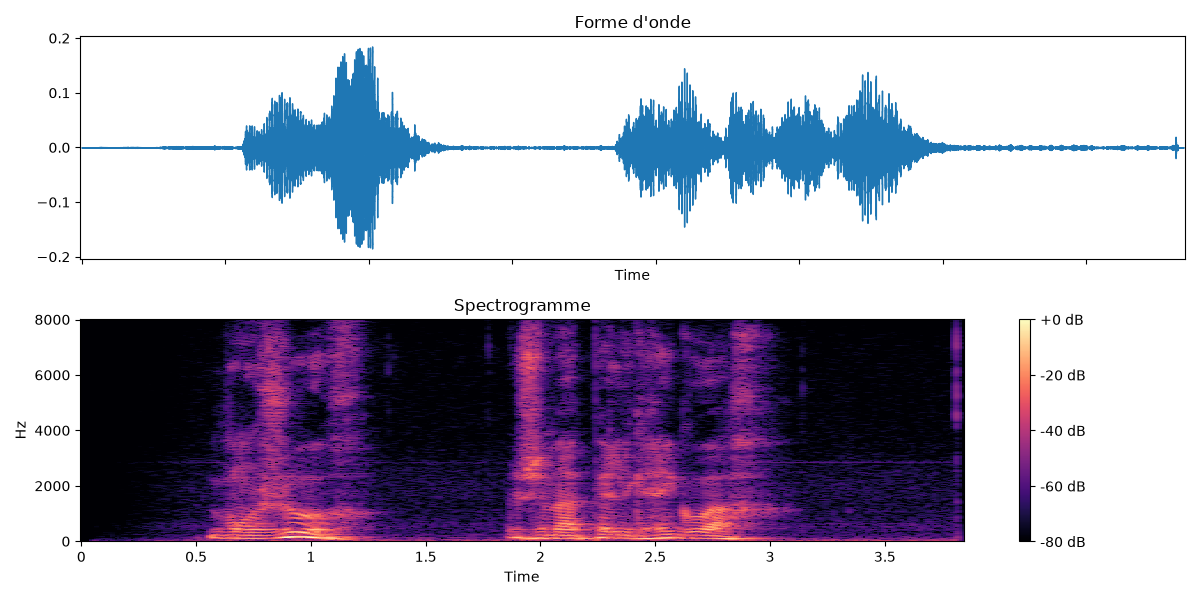
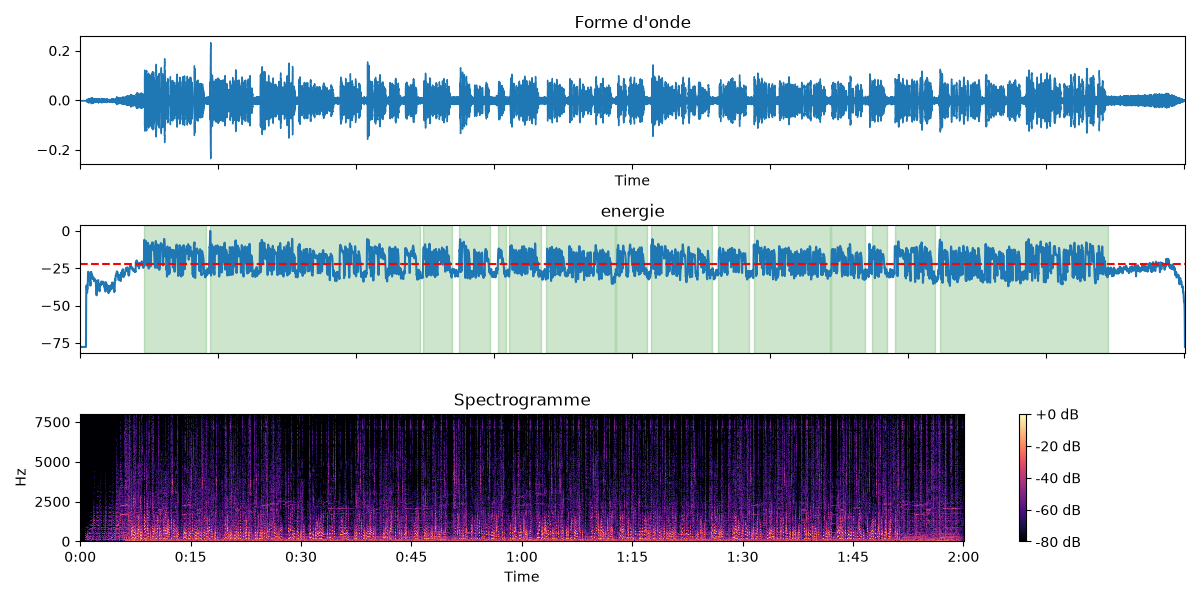
test de representativité des samples

diff --git a/rttm_files.py b/rttm_files.py
@@ -3,6 +3,9 @@ from pyannote.database.util import load_rttm #chargement des fichiers
 from pathlib import Path #pour manipuler les fichiers (supprimer les char du type (.pdf), etc...)
 import numpy as np
 import matplotlib.pyplot as plt#affichage
+import pandas as pd
+from scipy.stats import ks_2samp
+import soundfile as sf
 
 def load_file_annotations(rttm_file):
     file=Path(rttm_file)
@@ -23,7 +26,7 @@ import soundfile
 from pyannote.database.util import load_rttm
 
 
-def get_representative_sample(folder_path,wav_folder,sample_size,all=False,seed=42):
+def get_representative_sample(folder_path,wav_folder,sample_size,all=False,seed=130):
     """go through rttm files in a folder, add a sample of them to a dictionnaire of annotations,if all==True then go through all the files of the folder"""
     directory=Path(folder_path)
     file_statistics=[]#recup les stats des fichiers, pour un sample représentatif
@@ -115,8 +118,152 @@ def get_representative_sample(folder_path,wav_folder,sample_size,all=False,seed=
             sample_annotations[row[0]]=folder_annotations[row[0]]#row[0] stem du fichier tiré
     return sample_annotations
 
-    
-# ###TESTS###
+##MADE BY CLAUDE
+def save_sample_rttm(sample, output_path, split_files=False):
+    """
+    Save the annotations returned by get_representative_sample in RTTM format.
+
+    Parameters
+    ----------
+    sample : dict[str, pyannote.core.Annotation]
+        Output of get_representative_sample: {file_stem: Annotation}.
+    output_path : str or Path
+        If split_files is False: path of the single RTTM file to write
+        (e.g. "data/samples/sample_dev_seed42.rttm").
+        If split_files is True: folder in which one "<stem>.rttm" file
+        per audio file is written.
+    split_files : bool, default False
+        False -> all annotations in one RTTM file (one block of lines per uri).
+        True  -> one RTTM file per audio file.
+
+    Returns
+    -------
+    list[Path]
+        Paths of the RTTM files that were written.
+
+    Notes
+    -----
+    - The uri (field 2 of each RTTM line) is forced to the file stem, so that
+      load_rttm(path)[stem] works when the file is read back.
+    - Annotations are copied before setting the uri: the input dict is not modified.
+    - Files are written in sorted stem order, so the output is deterministic.
+    - pyannote writes times with 3 decimals (1 ms precision).
+    """
+    output_path = Path(output_path)
+    written_files = []
+
+    if split_files:
+        output_path.mkdir(parents=True, exist_ok=True)
+        for stem in sorted(sample):
+            annotation = sample[stem].copy()
+            annotation.uri = stem
+            file_path = output_path / f"{stem}.rttm"
+            with open(file_path, "w") as f:
+                annotation.write_rttm(f)
+            written_files.append(file_path)
+    else:
+        output_path.parent.mkdir(parents=True, exist_ok=True)
+        with open(output_path, "w") as f:
+            for stem in sorted(sample):
+                annotation = sample[stem].copy()
+                annotation.uri = stem
+                annotation.write_rttm(f)
+        written_files.append(output_path)
+
+    return written_files
+
+
+############TESTS BY CLAUDE###############
+
+RTTM_DIR = Path("data/voxconverse/annotations/dev")
+WAV_DIR = Path("data/voxconverse/dev/audio")
+OUT_CSV = Path("figures/sample_vs_dev_smd_ks.csv")
+SAMPLE_SIZE = 90
+
+SEED = 130
+ 
+# Variables utilisées par la stratification (équilibrées par construction)
+STRATIFIED = ["n_speakers", "overlap_rate", "speech_ratio"]
+# Variables NON utilisées par la stratification (le vrai test)
+OTHERS = ["duration", "n_segments", "mean_segment"]
+ 
+SMD_THRESHOLD = 0.1  # repère usuel : |SMD| < 0.1 = bon équilibre
+ 
+ 
+def compute_file_stats(stem, annotation, wav_dir=WAV_DIR):
+    """Statistiques d'un fichier, à partir de son Annotation de référence et de son .wav."""
+    duration = sf.info(str(wav_dir / f"{stem}.wav")).duration
+    speech = annotation.get_timeline().support().duration()
+    overlap = annotation.get_overlap().duration()
+    seg_durations = [seg.duration for seg, _ in annotation.itertracks()]
+    return {
+        "file": stem,
+        "n_speakers": len(annotation.labels()),
+        "overlap_rate": overlap / speech if speech > 0 else 0.0,
+        "speech_ratio": speech / duration,
+        "duration": duration,
+        "n_segments": len(seg_durations),
+        "mean_segment": float(np.mean(seg_durations)) if seg_durations else 0.0,
+    }
+ 
+ 
+def build_dev_table(rttm_dir=RTTM_DIR, wav_dir=WAV_DIR):
+    """DataFrame des stats de tous les fichiers du dev (une ligne par fichier)."""
+    rows = []
+    for path in sorted(rttm_dir.glob("*.rttm")):
+        annotation = next(iter(load_rttm(str(path)).values()))
+        rows.append(compute_file_stats(path.stem, annotation, wav_dir))
+    return pd.DataFrame(rows)
+ 
+ 
+def smd(sample_values, dev_values):
+    sd = dev_values.std(ddof=1)
+    return (sample_values.mean() - dev_values.mean()) / sd if sd > 0 else 0.0
+ 
+ 
+def compare_sample_to_dev(df_dev, sample_stems):
+    in_sample = df_dev["file"].isin(sample_stems)
+    s, comp = df_dev[in_sample], df_dev[~in_sample]
+    rows = []
+    for var in STRATIFIED + OTHERS:
+        ks_comp = ks_2samp(s[var], comp[var])
+        value = smd(s[var], df_dev[var])
+        rows.append({
+            "variable": var,
+            "stratifiee": var in STRATIFIED,
+            "mean_sample": s[var].mean(),
+            "mean_dev": df_dev[var].mean(),
+            "median_sample": s[var].median(),
+            "median_dev": df_dev[var].median(),
+            "SMD": value,
+            "SMD_ok": abs(value) < SMD_THRESHOLD,
+            "D_vs_dev": ks_2samp(s[var], df_dev[var]).statistic,
+            "D_vs_complement": ks_comp.statistic,
+            "p_vs_complement": ks_comp.pvalue,
+        })
+    return pd.DataFrame(rows)
+ 
+ 
+def main():
+    sample = get_representative_sample(str(RTTM_DIR), str(WAV_DIR), SAMPLE_SIZE, seed=SEED)
+    df_dev = build_dev_table()
+    result = compare_sample_to_dev(df_dev, list(sample.keys()))
+ 
+    print(f"Sample : {len(sample)} fichiers / dev : {len(df_dev)} fichiers (seed={SEED})\n")
+    print(result.round(3).to_string(index=False))
+ 
+    OUT_CSV.parent.mkdir(exist_ok=True)
+    result.to_csv(OUT_CSV, index=False)
+    print(f"\nTableau sauvegardé dans {OUT_CSV}")
+ 
+ 
+if __name__ == "__main__":
+    main()
+
+
+
+
+# ###1st TESTS### BY G
 # sample = get_representative_sample("data/voxconverse/annotations/dev", "data/voxconverse/dev/audio", 40)
 # print(len(sample))
 # print(sample)

diff --git a/experimenations.py b/experimenations.py
@@ -2,13 +2,16 @@ import librosa, librosa.display, soundfile as sf
 import numpy as np
 import matplotlib.pyplot as plt
 from pyannote.database.util import load_rttm
+from rttm_files import load_file_annotations
 
 
 #parameters
 sr=16000#frequence d'echantillonage
-frame_size=64
-hop_size=10
-
+frame_size=64#en ms
+hop_size=10#en ms
+#conversion en nombre/s
+frame_size=int(frame_size*(sr/1000))
+hop_size=int(hop_size*(sr/1000))
 
 #charger la data
 def load_audio (path,sr):
@@ -19,11 +22,14 @@ def load_audio (path,sr):
 def FFT(signal_audio,frame_size=frame_size,hop_size=hop_size):
     """#fait la tranformée de fourier rapide du signal, paramètres en ms"""
     signal_audio=signal_audio#car stft prend en parametres le nombre d'echantillons par trame
-    frame_size=frame_size*16
-    hop_size=hop_size*16
     hann_size=frame_size# on veut que recouvrir exactement la frame
     FFT_output=librosa.stft(signal_audio,n_fft=frame_size,hop_length=hop_size,win_length=hann_size)
     return FFT_output
+
+#calcul RMS : energie de chaque trame pour le seuil de parole VAD
+def RMS_on_FFT(FFT_output,frame_size=frame_size):
+    rms=librosa.feature.rms(S=np.abs(FFT_output),frame_length=frame_size)
+    return rms
 
 
 # #echantillonage
@@ -58,30 +64,44 @@ def FFT(signal_audio,frame_size=frame_size,hop_size=hop_size):
 # ######################
 # #FICHIER2#
 
-# #echantillonage
-# audio1=load_audio("data/enregistrement.wav", sr)
+#echantillonage
+audio1=load_audio("data/voxconverse/dev/audio/ysgbf.wav", sr)
 
-# #graphique
-# fig1, axes1 = plt.subplots(nrows=2, ncols=1, figsize=(12, 6),sharex=True)# nrows le nombre de ligne ncols colonne donc -> nbr de graphiques dans la figure=nrows*ncols
-# librosa.display.waveshow(audio1,sr=sr,ax=axes1[0])
-# axes1[0].set(title="Forme d'onde")
+#graphique
+fig1, axes1 = plt.subplots(nrows=3, ncols=1, figsize=(12, 6),sharex=True)# nrows le nombre de ligne ncols colonne donc -> nbr de graphiques dans la figure=nrows*ncols
+librosa.display.waveshow(audio1,sr=sr,ax=axes1[0])
+axes1[0].set(title="Forme d'onde")
 
-# #trames et FFT
-# D1=FFT(audio1)
-# print(D1.shape)
+#trames et FFT
+D1=FFT(audio1)
+print(D1.shape)
+#VAD
+rms=RMS_on_FFT(D1)
 
-# #spectrogramme
-# S_db1 = librosa.amplitude_to_db(np.abs(D1), ref=np.max)#amplitude to db convertit en db, np.abs prend le module de D (complexe->reel), ref est valeur de ref (à l'origine ?)np.max prend la val max du spectrogramme --> important pour comparer diff fichiers entre eux qui n'ont pas dutout le meme volume
+#spectrogramme
+S_db1 = librosa.amplitude_to_db(np.abs(D1), ref=np.max)#amplitude to db convertit en db, np.abs prend le module de D (complexe->reel), ref est valeur de ref (à l'origine ?)np.max prend la val max du spectrogramme --> important pour comparer diff fichiers entre eux qui n'ont pas dutout le meme volume
 
-# #graphique
-# spectro1 = librosa.display.specshow(S_db1, sr=sr, hop_length=hop_size*16, x_axis="time", y_axis="hz", ax=axes1[1])
-# fig1.colorbar(spectro1, ax=axes1[1], format="%+2.0f dB")
-# axes1[1].set(title="Spectrogramme")
-# plt.tight_layout()#ajuste les marges pour eviter les chevauchements
-# plt.savefig("figures/waveform1.png")
+#graphique rms
+times = librosa.times_like(rms, sr=sr, hop_length=hop_size)
+rms_db = librosa.amplitude_to_db(rms, ref=np.max)
+axes1[1].plot(times, rms_db[0])
+X=22
+axes1[1].axhline(-X, color="red", linestyle="--")# marge du seuil en dB
+axes1[1].set(title="energie")
+ref=load_file_annotations("ysgbf.rttm")
+for seg in ref.get_timeline().support():
+       axes1[1].axvspan(seg.start, seg.end, alpha=0.2, color="green")
+
+#graphique spectrogramme
+spectro1 = librosa.display.specshow(S_db1, sr=sr, hop_length=hop_size, x_axis="time", y_axis="hz", ax=axes1[2])
+fig1.colorbar(spectro1, ax=axes1[2], format="%+2.0f dB")
+axes1[2].set(title="Spectrogramme")
+plt.tight_layout()#ajuste les marges pour eviter les chevauchements
+plt.savefig("figures/waveform1.png")
 
 
-# annot=load_rttm("data/voxconverse/annotations/dev/abjxc.rttm")["abjxc"]
-# print(annot)
-# print(annot.label_duration("spk00"))
 
+
+annot=load_rttm("data/voxconverse/annotations/dev/abjxc.rttm")["abjxc"]
+print(annot)
+print(annot.label_duration("spk00"))

diff --git a/docs/notes-importantes-et-difficultes.md b/docs/notes-importantes-et-difficultes.md
@@ -32,6 +32,7 @@ Les deux ensembles ne se ressemblent pas tout à fait (chiffres des auteurs). Le
 ### conclusions de data vizualization 
 
 Quelques outliers, on verra ce qu'on en fait après avoir fini d'établir la baseline
+- **Locuteurs récurrents (VoxConverse)** : aucune source (article Chung et al. 2020, rapports VoxSRC 2020/2021, rétrospective 2024) ne dit si une même personne apparaît dans plusieurs fichiers, ni entre dev et test. Les étiquettes RTTM v0.3 sont locales à chaque fichier (vérifié : 20 étiquettes distinctes dans tout le dev, 21 dans le test), et les auteurs ont dédoublonné les vidéos, pas les personnes. Question ouverte, vérifiable seulement par comparaison d'embeddings entre fichiers. Impact négligeable pour la baseline (aucun entraînement) ; à vérifier avant tout fine-tuning sur le dev en semaine 2.
 
 ## Décisions d'évaluation
 Pour l'instant :

diff --git a/docs/choix_techniques.md b/docs/choix_techniques.md
@@ -21,7 +21,7 @@ Format d'une entrée :
 
 Les champs marqués *à compléter* n'ont pas été notés au moment de la décision.
 
-⚠ Deux décisions sont **recopiées intégralement** depuis d'autres fichiers :
+Deux décisions sont **recopiées intégralement** depuis d'autres fichiers :
 
 - D-10, recopiée depuis `docs/decision_corpus.md` ;
 - D-30 à D-37, recopiées depuis le fichier « Décisions d'évaluation ».
